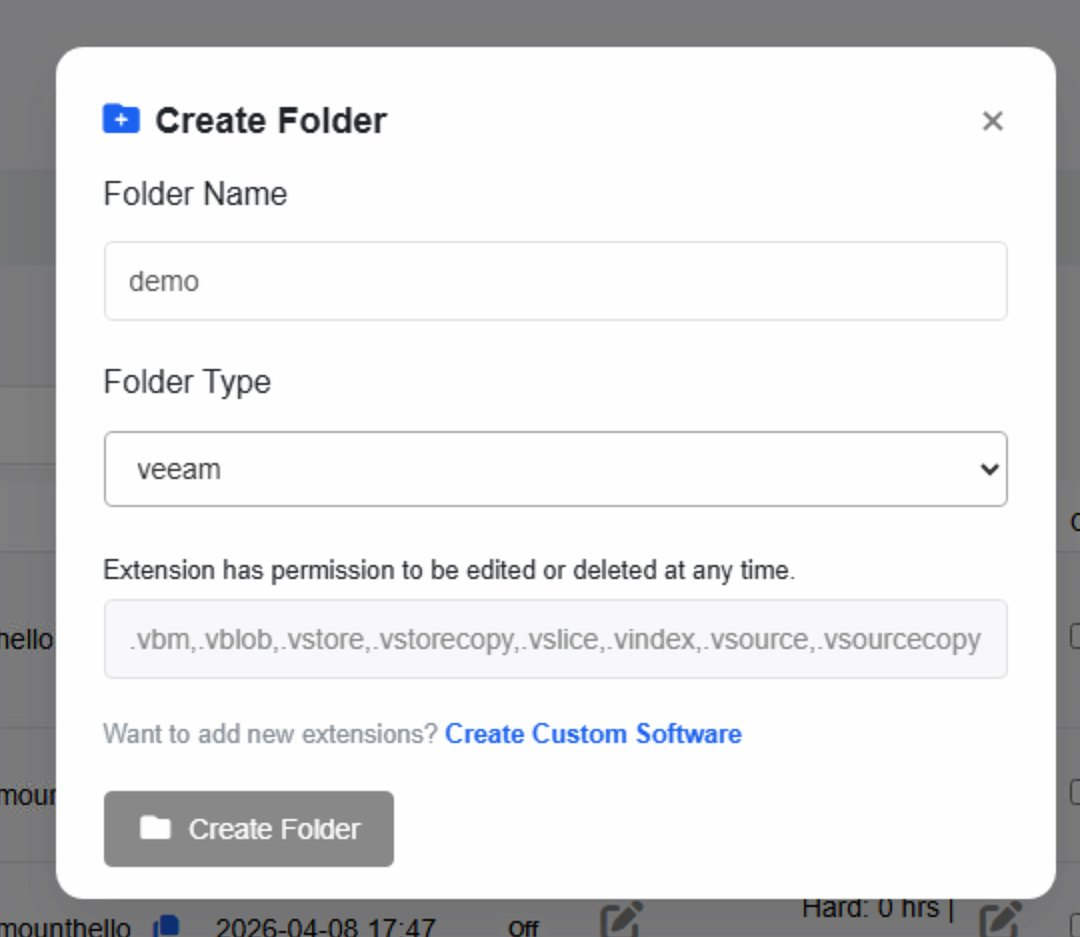
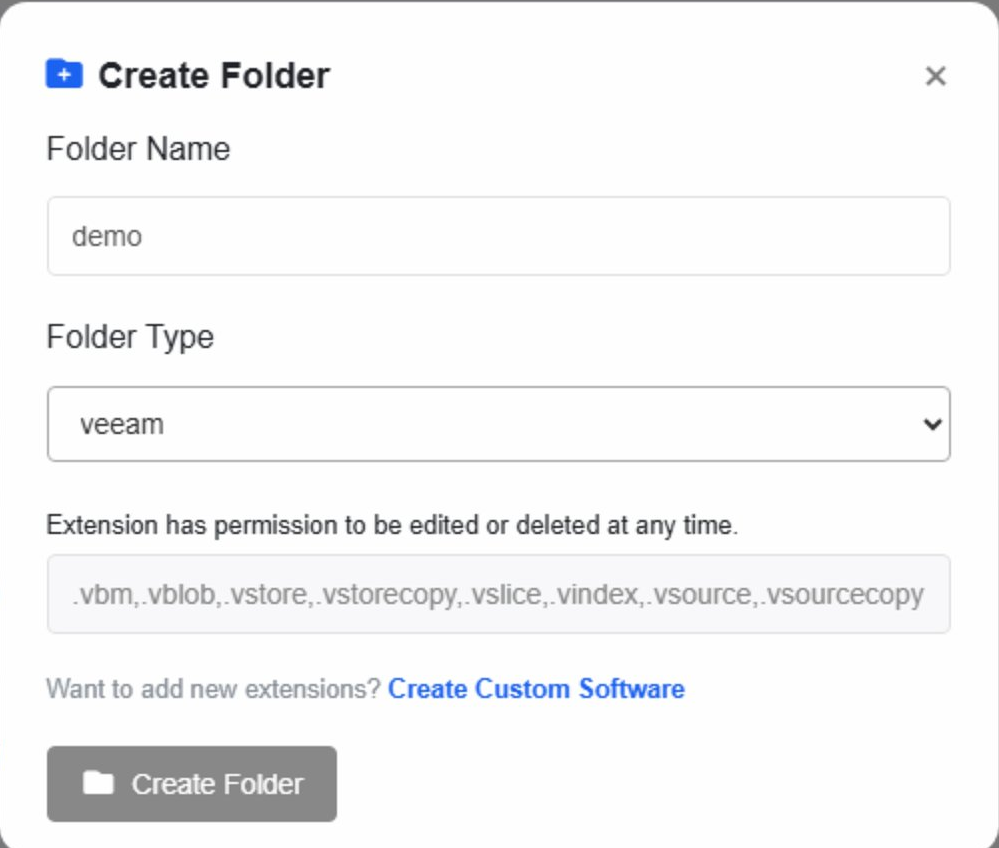
Design Changes.

Changed region(s): [[0.0, 0.0, 1.0, 1.0], [0.8999, 0.1226, 0.9309, 0.1533]]

diff --git a/docs/System Overview/browse_repo.md b/docs/System Overview/browse_repo.md
@@ -59,7 +59,6 @@ Clicking **Recover** opens a confirmation dialog asking whether to overwrite exi
 <img
   src="/img/browse-repo-recover-confirm.png"
   alt="Recover Confirmation Dialog"
-  width="350"
 />
 
 *Figure — Recover confirmation dialog*
@@ -102,7 +101,11 @@ The **Recover** button appears in the `···` actions dropdown for any Cloud On
 
 To create a new repository folder, click the **Create Folder** button at the top right. A dialog appears where you enter the folder name and select the folder type.
 
-![Create Folder Dialog](/img/browse-repo-create-folder.png)
+<img
+  src="/img/browse-repo-create-folder.png"
+  alt="Recover Confirmation Dialog"
+  width="650"
+/>
 
 *Figure 28 — Create Folder dialog*
 
